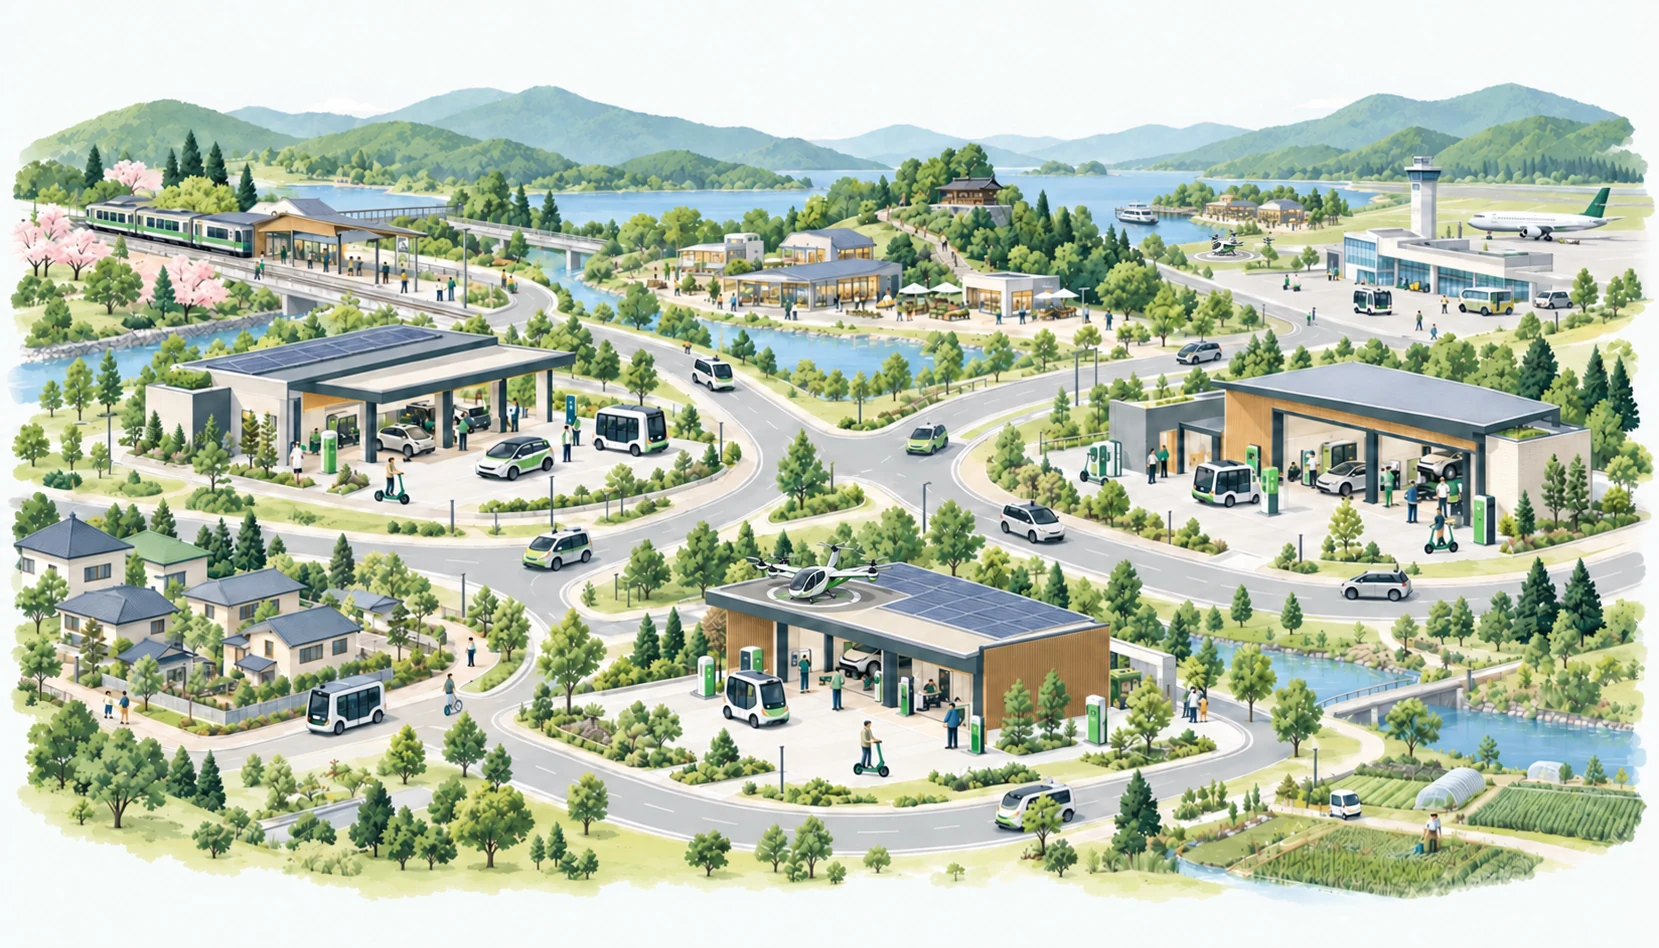
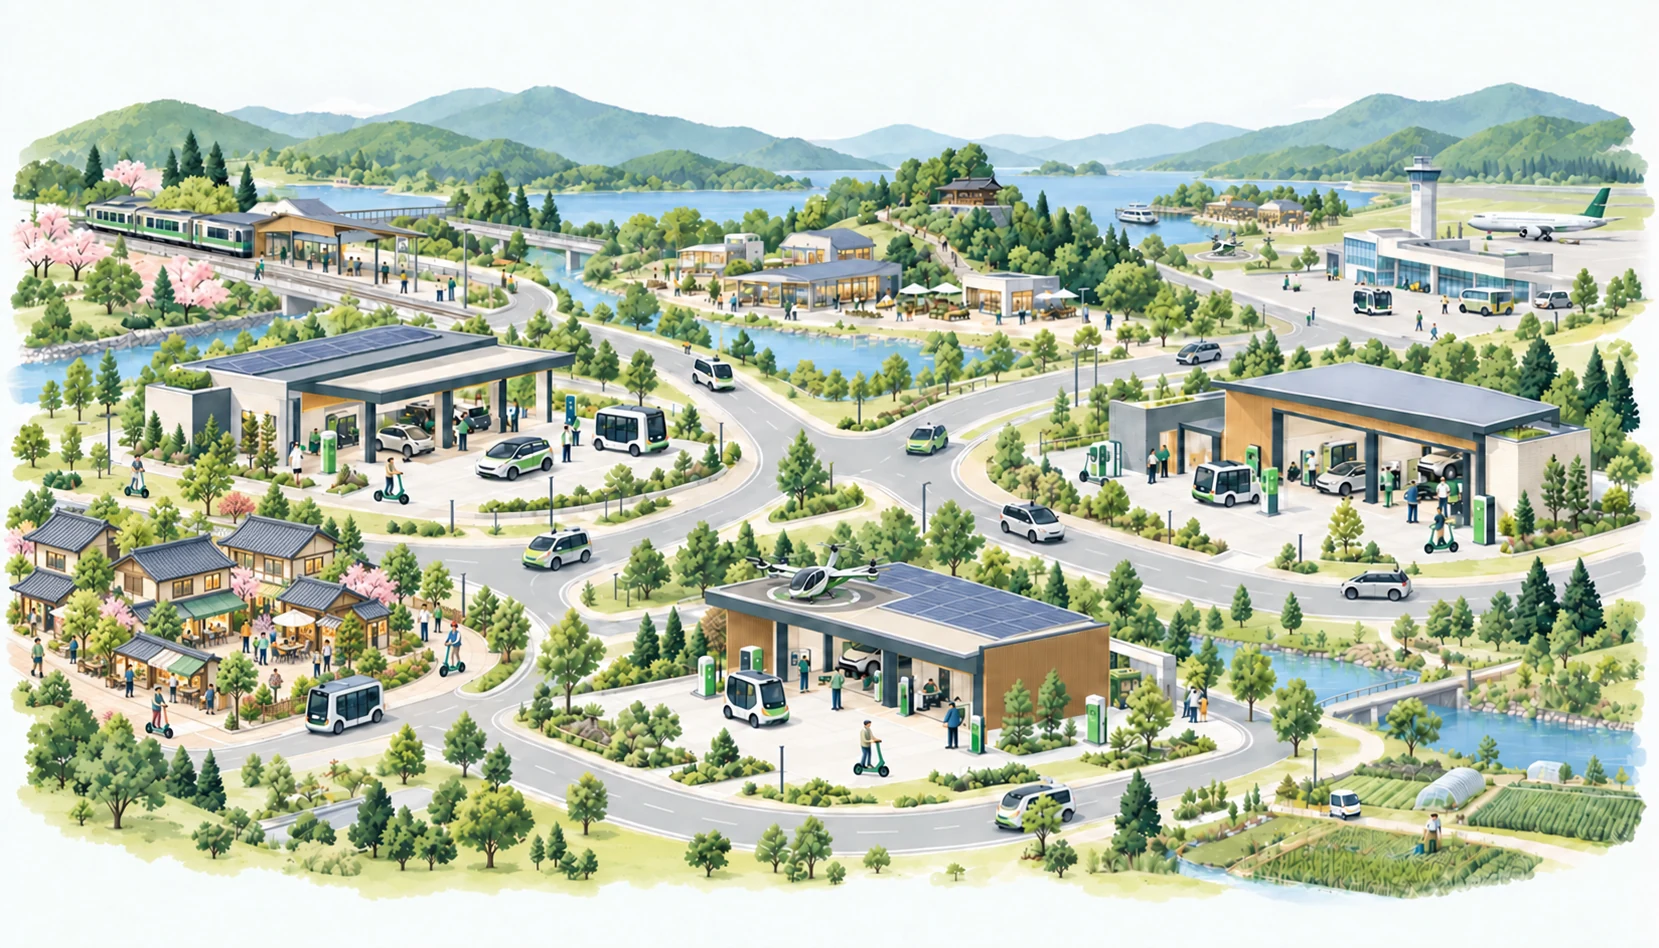
Move tourism map point to the new shopping street
Use the approved shopping street and scooter illustration, update tourism details and the exact requested film caption, and keep keyboard navigation between map locations accessible.

diff --git a/src/pages/home.html b/src/pages/home.html
@@ -13,13 +13,13 @@
     <div class="ecosystem-map-heading"><strong>それぞれの地域が主役になる、移動のネットワーク。</strong><span>FUTURE CONCEPT</span></div>
     <p class="map-guide">気になるスポットにポインタを合わせるか、タップして未来の活用シーンを見る。</p>
     <div class="map-canvas">
-      <img src="/assets/illustrations/mobility-ecosystem-harbor.webp" width="1659" height="948" alt="屋上にeVTOLのバーティポートを備えたディーラーと、駅・空港・商業施設・観光地・港をつなぐ未来の地域像" loading="lazy" decoding="async">
+      <img src="/assets/illustrations/mobility-ecosystem-harbor.webp?v=20261001-shopping" width="1659" height="948" alt="屋上にeVTOLのバーティポートを備えたディーラーと、駅・空港・商業施設・港と、左下の商店街を電動スクーターで巡る人々を描いた未来の地域像" loading="lazy" decoding="async">
       <button type="button" class="map-spot" data-map-spot="station" style="--spot-x:19.4%;--spot-y:25.3%" aria-controls="map-detail-station" aria-expanded="false" aria-label="1 駅の未来構想"><span class="map-spot-number" aria-hidden="true">01</span><span class="map-spot-label" aria-hidden="true">駅</span></button>
       <button type="button" class="map-spot" data-map-spot="airport" style="--spot-x:87.5%;--spot-y:28.0%" aria-controls="map-detail-airport" aria-expanded="false" aria-label="2 空港の未来構想"><span class="map-spot-number" aria-hidden="true">02</span><span class="map-spot-label" aria-hidden="true">空港</span></button>
       <button type="button" class="map-spot" data-map-spot="shopping" style="--spot-x:49.3%;--spot-y:30.5%" aria-controls="map-detail-shopping" aria-expanded="false" aria-label="3 商業施設の未来構想"><span class="map-spot-number" aria-hidden="true">03</span><span class="map-spot-label" aria-hidden="true">商業施設</span></button>
       <button type="button" class="map-spot" data-map-spot="dealer" style="--spot-x:55.0%;--spot-y:70.0%" aria-controls="map-detail-dealer" aria-expanded="false" aria-label="4 自動車ディーラーの未来構想"><span class="map-spot-number" aria-hidden="true">04</span><span class="map-spot-label" aria-hidden="true">自動車ディーラー</span></button>
       <button type="button" class="map-spot" data-map-spot="port" style="--spot-x:75.53%;--spot-y:22.89%" aria-controls="map-detail-port" aria-expanded="false" aria-label="5 港の未来構想"><span class="map-spot-number" aria-hidden="true">05</span><span class="map-spot-label" aria-hidden="true">港</span></button>
-      <button type="button" class="map-spot" data-map-spot="tourism" style="--spot-x:58.5%;--spot-y:21.0%" aria-controls="map-detail-tourism" aria-expanded="false" aria-label="6 観光地の未来構想"><span class="map-spot-number" aria-hidden="true">06</span><span class="map-spot-label" aria-hidden="true">観光地</span></button>
+      <button type="button" class="map-spot" data-map-spot="tourism" style="--spot-x:14.65%;--spot-y:67.51%" aria-controls="map-detail-tourism" aria-expanded="false" aria-label="6 観光地の未来構想"><span class="map-spot-number" aria-hidden="true">06</span><span class="map-spot-label" aria-hidden="true">観光地</span></button>
     </div>
     <div class="map-legend" aria-label="未来構想のスポット">
       <button type="button" class="map-legend-button" data-map-spot="station" aria-controls="map-detail-station" aria-expanded="false"><span class="map-spot-number" aria-hidden="true">01</span><span>駅</span></button>
@@ -66,17 +66,17 @@
     </section>
     <section class="map-popup" id="map-detail-tourism" role="region" aria-labelledby="map-title-tourism" hidden>
       <p class="map-popup-kicker">FUTURE CONCEPT / 06 観光地</p>
-      <h4 id="map-title-tourism">地域が主役の、巡りたくなる観光へ。</h4>
+      <h4 id="map-title-tourism">商店街を歩き、地域を巡る。</h4>
       <button type="button" class="map-popup-close" data-map-close aria-label="観光地の説明を閉じる">×</button>
-      <p>地元の観光事業者が主体となり、Lymoを通じて電動マイクロモビリティを提供する構想です。</p>
-      <p>観光地での回遊性・周遊性を高め、点在する見どころや地域のお店へ、自由に足を延ばせる移動を目指します。</p>
+      <p>地元の観光事業者が主体となり、Lymoを通じて電動スクーターなどの電動マイクロモビリティを提供する構想です。</p>
+      <p>商店街での街歩きと、周辺の見どころを巡る移動をつなぎます。歩いて楽しむ時間に、電動スクーターなどで周遊する自由を重ね、地域の回遊性・周遊性を高める未来を目指します。</p>
     </section>
     <p class="map-concept-note">このマップは将来構想です。記載のサービスや連携は、提供中・提携確定を示すものではありません。</p>
     <figcaption><strong>地域のディーラーが運営し、Lymoが拠点同士をつなぐ。</strong><span>目指す地域の姿を描いたコンセプトイラスト</span></figcaption>
   </figure>
   <figure class="ecosystem-concept-film">
     <div class="film-frame"><video id="film-future-concept" class="concept-video" data-src="/assets/video/future-concept-20261001.mp4" poster="/assets/illustrations/mobility-ecosystem.webp" width="1920" height="1080" muted loop playsinline preload="none" aria-label="地域のディーラーがモビリティハブとなり、Lymoが地域の移動をつなぐ未来構想の30秒映像" aria-describedby="future-concept-caption"></video><button class="film-control" data-film-toggle="film-future-concept" aria-controls="film-future-concept" aria-label="映像を再生" aria-pressed="false"><span data-film-icon aria-hidden="true">▶</span><span data-film-label>再生</span></button><p class="film-error" hidden>映像を読み込めませんでした。<button type="button" data-film-retry="film-future-concept">再読み込み</button></p></div>
-    <figcaption id="future-concept-caption"><strong>地域のディーラーが運営し、Lymoが拠点同士をつなぐ。</strong><span>目指す地域の姿を描いたコンセプト映像</span></figcaption>
+    <figcaption id="future-concept-caption"><strong>地域の人々の生活の側に自由な移動を叶える様々なモビリティが寄り添う。</strong><span>目指す地域の姿を描いたコンセプト映像</span></figcaption>
   </figure>
   <div class="ecosystem-definition"><p class="eyebrow">「自律分散」とは</p><p>各地域のディーラーが主体的に運営し、必要なときに車両や情報を融通し合う。地域ごとの違いを生かしながら、ひとつの移動ネットワークとして支え合う仕組みを目指します。</p></div>
   <ol class="ecosystem-steps">

diff --git a/src/app.js b/src/app.js
@@ -206,10 +206,6 @@
       const rect = anchor.getBoundingClientRect();
       const width = document.documentElement.clientWidth;
       const height = window.innerHeight;
-      if (rect.bottom <= 0 || rect.top >= height || rect.right <= 0 || rect.left >= width) {
-        closeDetail();
-        return;
-      }
       const panelRect = active.getBoundingClientRect();
       const margin = 12;
       const left = Math.max(margin, Math.min(rect.left + rect.width / 2 - panelRect.width / 2, width - panelRect.width - margin));
@@ -260,12 +256,6 @@
       });
       button.addEventListener('focus', () => {
         if (!restoringFocus) openDetail(button);
-      });
-      button.addEventListener('keydown', event => {
-        if (event.key === 'Tab' && !event.shiftKey && activeButton(button)) {
-          event.preventDefault();
-          active.focus({ preventScroll: true });
-        }
       });
       button.addEventListener('click', event => {
         if (activeButton(button) && pinned) {

diff --git a/scripts/build_site.py b/scripts/build_site.py
@@ -96,7 +96,7 @@ def page(path, title, description, content, active='', cta=True, body_class=''):
         if ANALYTICS_ID else ''
     )
     head = f'''<!doctype html>
-<html lang="ja"><head><meta charset="UTF-8"><meta name="viewport" content="width=device-width, initial-scale=1"><meta name="theme-color" content="#ffffff"><meta name="description" content="{E(description, quote=True)}"><title>{E(title)}</title><meta property="og:title" content="{E(title, quote=True)}"><meta property="og:description" content="{E(description, quote=True)}"><meta property="og:type" content="website"><meta property="og:locale" content="ja_JP"><link rel="icon" href="/assets/dxtrl-official.png" type="image/png"><link rel="stylesheet" href="/styles.css?v=20260911-site-visuals2"><link rel="stylesheet" href="/tech.css?v=20261001-ecosystem-map"><script src="/app.js?v=20261001-ecosystem-map" defer></script>{analytics_tag}</head>
+<html lang="ja"><head><meta charset="UTF-8"><meta name="viewport" content="width=device-width, initial-scale=1"><meta name="theme-color" content="#ffffff"><meta name="description" content="{E(description, quote=True)}"><title>{E(title)}</title><meta property="og:title" content="{E(title, quote=True)}"><meta property="og:description" content="{E(description, quote=True)}"><meta property="og:type" content="website"><meta property="og:locale" content="ja_JP"><link rel="icon" href="/assets/dxtrl-official.png" type="image/png"><link rel="stylesheet" href="/styles.css?v=20260911-site-visuals2"><link rel="stylesheet" href="/tech.css?v=20261001-ecosystem-map"><script src="/app.js?v=20261001-shopping" defer></script>{analytics_tag}</head>
 <body class="{body_class}"><a class="skip-link" href="#main">本文へ移動</a><header class="site-header"><a class="wordmark" href="/" aria-label="DXTRL ホーム">{LOGO}</a><nav class="desktop-nav" aria-label="メインナビゲーション">{nav(active)}</nav><a class="header-contact" href="/contact/">お問い合わせ <span aria-hidden="true">↗</span></a><button class="menu-toggle" aria-label="メニューを開く" aria-expanded="false" aria-controls="mobile-menu"><span></span><span></span></button></header><nav class="mobile-menu" id="mobile-menu" aria-label="モバイルナビゲーション" inert>{nav(active, True)}<p>DRIVING THE NEXT MOBILITY.</p></nav><main id="main">'''
     footer = f'''</main><footer class="site-footer"><div class="wrap"><div class="footer-top"><a class="wordmark" href="/" aria-label="DXTRL ホーム">{LOGO}</a><nav class="footer-links" aria-label="フッターナビゲーション">{nav(active)}<a href="/contact/">お問い合わせ</a><a href="/access-analysis/">アクセス解析について</a></nav><a class="back-top" href="#top" aria-label="ページの先頭へ">↑</a></div><nav class="footer-external" aria-label="公式サービス・メディア"><a href="https://dealer.lymo.life/" target="_blank" rel="noopener noreferrer">Dealer OS <span aria-hidden="true">↗</span></a><a href="https://about.lymo.life/" target="_blank" rel="noopener noreferrer">Lymo <span aria-hidden="true">↗</span></a><a href="https://note.com/dxtrl" target="_blank" rel="noopener noreferrer">公式note <span aria-hidden="true">↗</span></a></nav><div class="footer-bottom"><span>DRIVING THE NEXT MOBILITY.</span><span>© 2026 DXTRL Inc.</span></div><p class="footer-ai-note">本サイト内の画像の一部はAIで生成しています</p></div></footer></body></html>'''
     target.write_text(head + content + (CTA if cta else '') + footer, encoding='utf-8')
